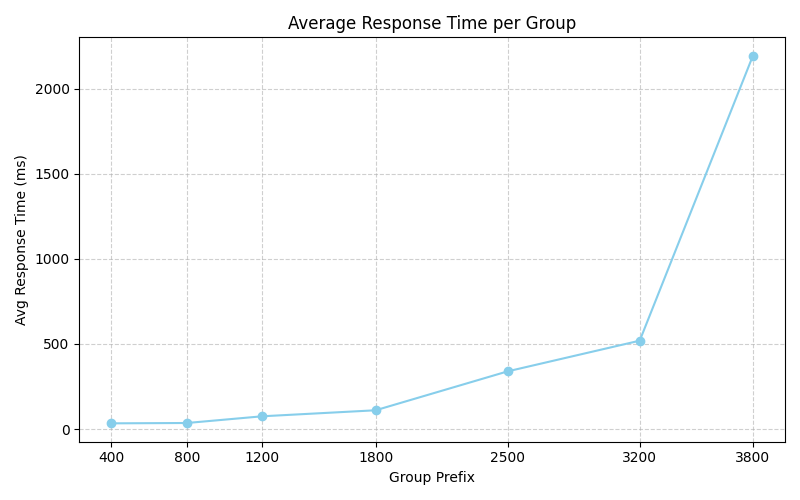
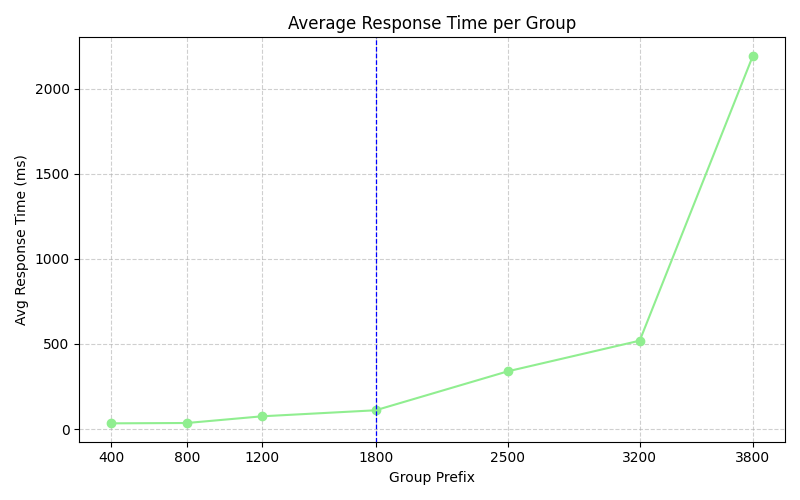
add vertical line on capacity plots

diff --git a/homework/capacity_test/extract_metrics.py b/homework/capacity_test/extract_metrics.py
@@ -64,15 +64,25 @@ def plot_grouped_summary(grouped_df, output_prefix="summary_plot"):
 
     # Sort by prefix
     grouped_df = grouped_df.sort_values("prefix")
+    
+    # Get x for knee capacity
+    max_power_index = grouped_df["power"].idxmax()
+    x_for_max_power = grouped_df.loc[max_power_index, "prefix"]
 
     # --- Plot Average Response Time ---
     plt.figure(figsize=(8, 5))
-    plt.plot(grouped_df["prefix"], grouped_df["avg_response_time_ms"], marker="o", linestyle="-", color="skyblue")
+    plt.plot(grouped_df["prefix"], grouped_df["avg_response_time_ms"], marker="o", linestyle="-", color="lightgreen")
     plt.xlabel("Group Prefix")
     plt.ylabel("Avg Response Time (ms)")
     plt.title("Average Response Time per Group")
     plt.grid(True, linestyle="--", alpha=0.6)
     plt.xticks(grouped_df["prefix"])
+    plt.axvline(
+        x=x_for_max_power,
+        color='blue',
+        linestyle='--',
+        linewidth=0.9,
+    )
     plt.tight_layout()
     plt.savefig(f"{plot_dir}/{output_prefix}_avg_response_time.png")
     plt.close()
@@ -85,6 +95,12 @@ def plot_grouped_summary(grouped_df, output_prefix="summary_plot"):
     plt.title("Throughput per Group")
     plt.grid(True, linestyle="--", alpha=0.6)
     plt.xticks(grouped_df["prefix"])
+    plt.axvline(
+        x=x_for_max_power,
+        color='blue',
+        linestyle='--',
+        linewidth=0.9,
+    )
     plt.tight_layout()
     plt.savefig(f"{plot_dir}/{output_prefix}_throughput.png")
     plt.close()
@@ -97,6 +113,12 @@ def plot_grouped_summary(grouped_df, output_prefix="summary_plot"):
     plt.title("Power per Group")
     plt.grid(True, linestyle="--", alpha=0.6)
     plt.xticks(grouped_df["prefix"])
+    plt.axvline(
+        x=x_for_max_power,
+        color='blue',
+        linestyle='--',
+        linewidth=0.9,
+    )
     plt.tight_layout()
     plt.savefig(f"{plot_dir}/{output_prefix}_power.png")
     plt.close()
